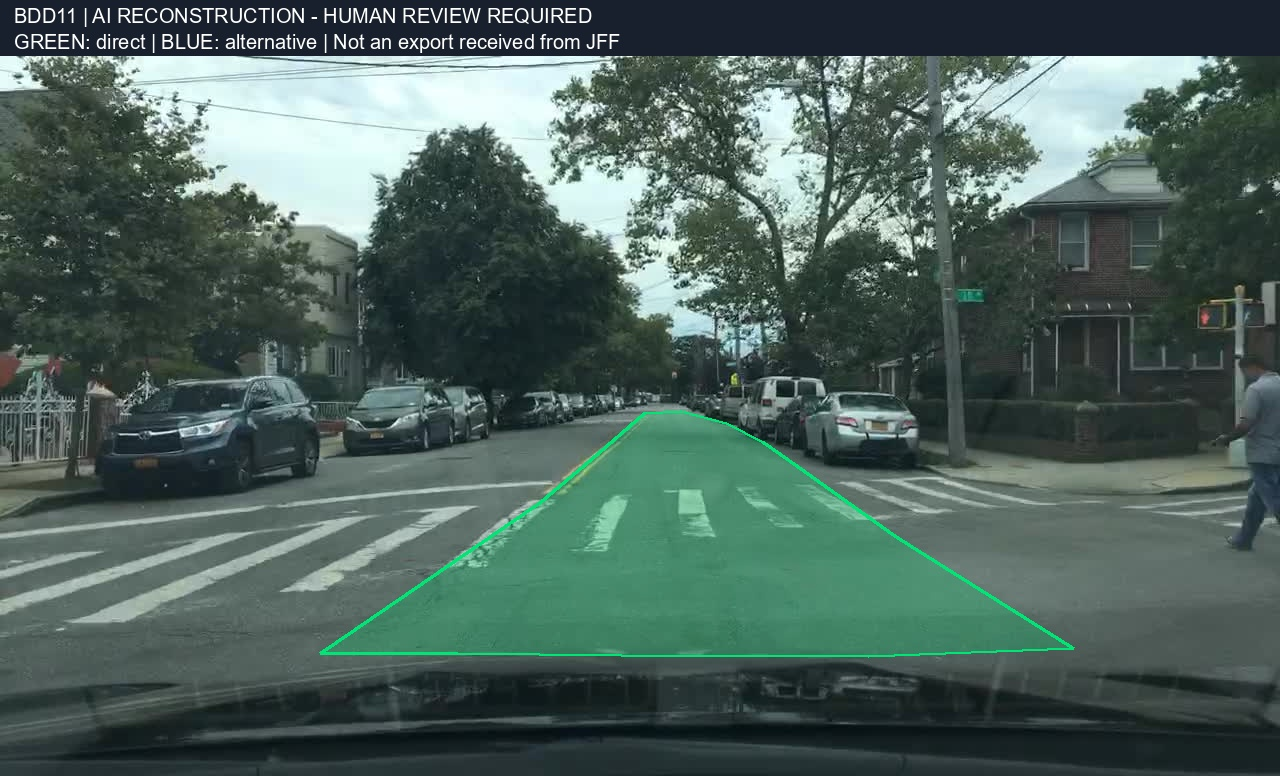
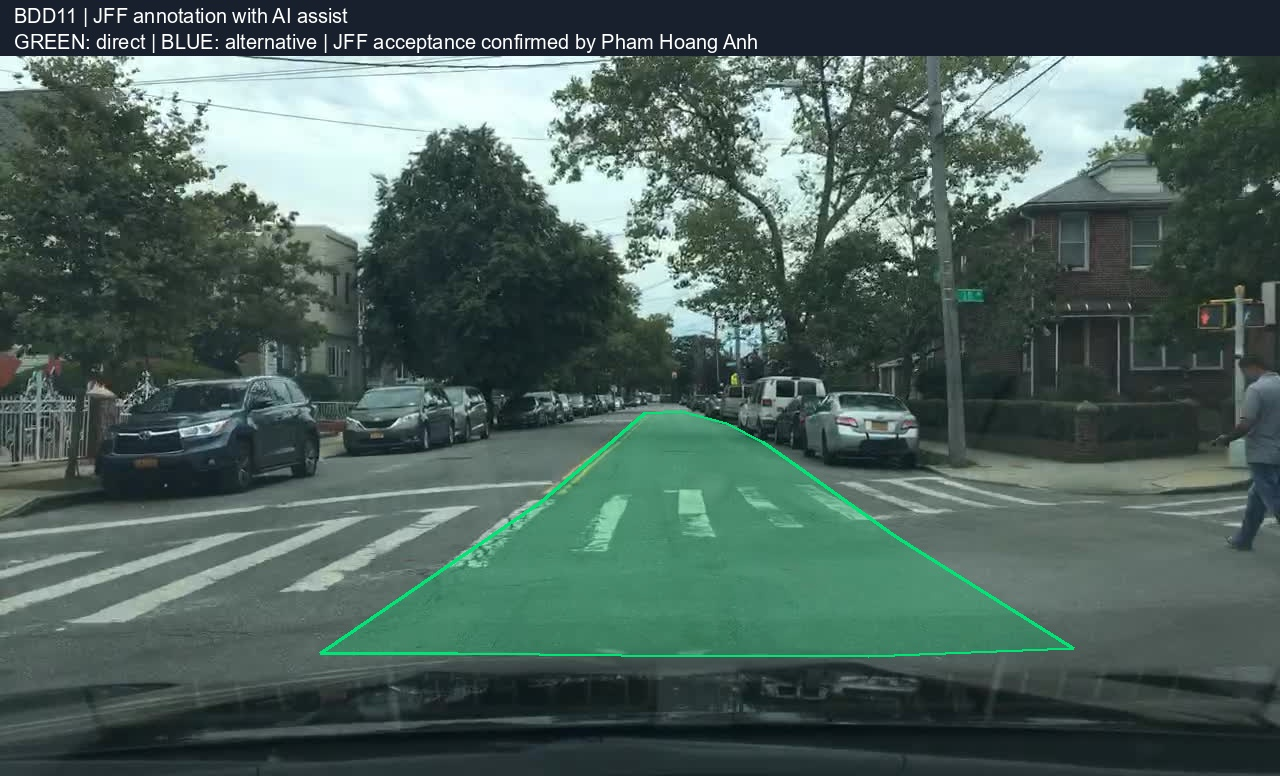
docs: record confirmed JFF acceptance of AI-assisted annotations

Changed region(s): [[0.0625, 0.0, 0.5938, 0.0619]]

diff --git a/guideline-challenge/ai_drafts/blind_drivable_reconstruction/build.py b/guideline-challenge/ai_drafts/blind_drivable_reconstruction/build.py
@@ -47,8 +47,8 @@ for index,row in enumerate(data['images']):
  canvas=Image.new('RGB',(1280,776),'#17202c')
  canvas.paste(Image.alpha_composite(original,layer).convert('RGB'),(0,56))
  title=ImageDraw.Draw(canvas)
- title.text((14,4),row['id']+' | AI RECONSTRUCTION - HUMAN REVIEW REQUIRED',font=font,fill='white')
- title.text((14,30),'GREEN: direct | BLUE: alternative | Not an export received from JFF',font=font,fill='white')
+ title.text((14,4),row['id']+' | JFF annotation with AI assist',font=font,fill='white')
+ title.text((14,30),'GREEN: direct | BLUE: alternative | JFF acceptance confirmed by Pham Hoang Anh',font=font,fill='white')
  canvas.save(HERE/f"{row['id']}-overlay.jpg",quality=95)
  previews.append(canvas)
 ET.indent(root)

diff --git a/guideline-challenge/ai_drafts/blind_drivable_reconstruction/README.md b/guideline-challenge/ai_drafts/blind_drivable_reconstruction/README.md
@@ -1,8 +1,8 @@
-# Bộ Drivable Area dựng lại bằng AI
+# JFF annotation with AI assist
 
-Đúng bộ 5 ảnh sanaka: BDD11, BDD14, BDD18, BDD24, BDD25. Nhãn được tạo offline để owner kiểm tra, chưa có review của người dùng hoặc kiểm thử import trực tiếp trên CVAT.
+Đúng bộ 5 ảnh sanaka: BDD11, BDD14, BDD18, BDD24, BDD25. Phạm Hoàng Anh đã review bộ ảnh và xác nhận trong cuộc trò chuyện rằng Just For Fun đã review, chấp nhận bộ nhãn này làm kết quả của họ. Trạng thái: **JFF annotation with AI assist — reviewed and accepted by Just For Fun**, theo xác nhận của Anh. Chưa kiểm thử import trực tiếp trên CVAT.
 
-Đây không phải file nhận từ Just For Fun và không tái tạo chính xác bài họ đã vẽ. Trợ lý đã xem gold trong quá trình chuẩn bị lab nên bộ này không phải blind test độc lập. Không đưa vào project/07_blind_handoff/peer_output hoặc dùng để báo điểm peer/GTS.
+Nguồn tạo file là AI sinh offline, sau đó được chấp nhận theo xác nhận trên; không phải file tải xuống từ task CVAT của JFF. Trợ lý đã xem gold trong quá trình chuẩn bị lab nên bộ này không phải blind test độc lập. Việc chấp nhận bộ nhãn không thay đổi giới hạn đó; không dùng bộ này để báo GTS độc lập.
 
 ## Sử dụng
 

diff --git a/guideline-challenge/project/07_blind_handoff/peer_feedback.md b/guideline-challenge/project/07_blind_handoff/peer_feedback.md
@@ -4,6 +4,7 @@
 - **Người label blind:** Nhóm peer không cung cấp tên cá nhân
 - **Nguồn:** `C:\Users\pc\Downloads\PEER_FEEDBACK.md`, nhận ngày 2026-09-26
 - **Tình trạng export:** Anh xác nhận nhãn peer nhìn chung giống gold về semantic và cấu trúc vùng; một số boundary/point lệch vài pixel. Export CVAT không được lưu trong repo nên nhận xét này không dùng để tính GTS chính thức.
+- **Bổ sung xác nhận:** Anh đã review bộ dựng lại và xác nhận Just For Fun đã chấp nhận bộ này. Tên mô tả: **JFF annotation with AI assist — reviewed and accepted by Just For Fun**. File tại `../../ai_drafts/blind_drivable_reconstruction/` được sinh offline bằng AI, không phải export tải từ task của JFF; đã có tiếp xúc gold nên không dùng làm bằng chứng blind độc lập hoặc tính GTS độc lập.
 
 ## 1. Peer trả lời
 
